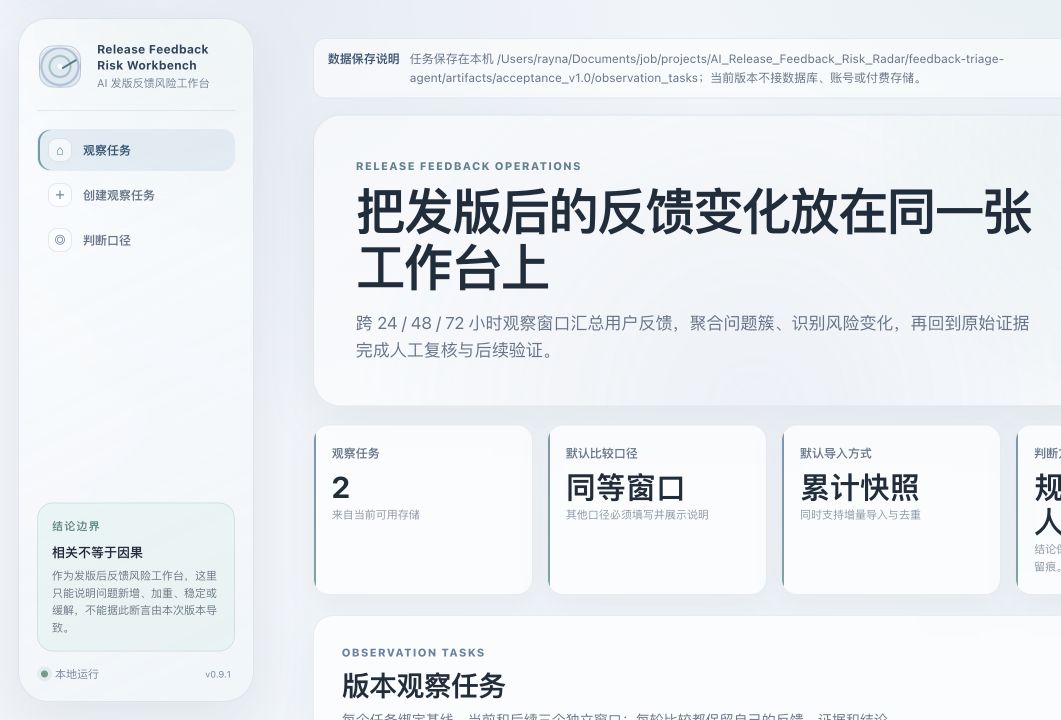
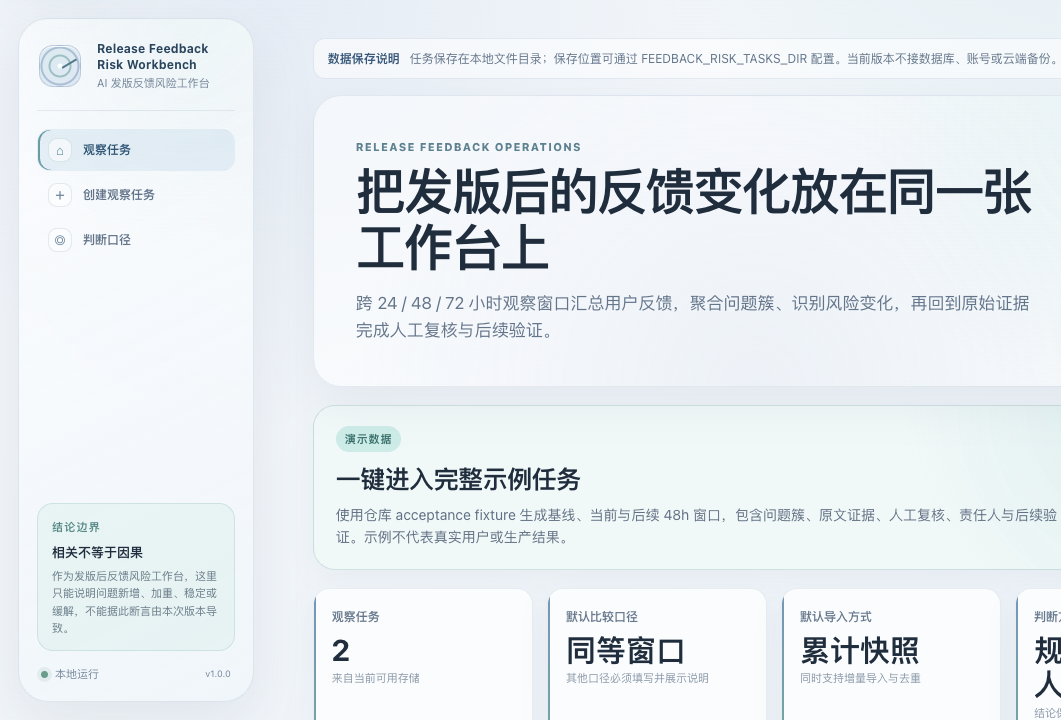
docs: refresh workbench screenshots without local paths

diff --git a/tests/test_risk_workbench.py b/tests/test_risk_workbench.py
@@ -87,8 +87,10 @@ def test_workbench_homepage_and_storage_boundary(
     assert "累计快照" in response.text
     assert "还没有观察任务" in response.text
     assert "相关不等于因果" in response.text
-    assert str(web_app.OBSERVATION_TASKS_DIR) in response.text
-    assert "当前版本不接数据库、账号或付费存储" in response.text
+    assert str(web_app.OBSERVATION_TASKS_DIR) not in response.text
+    assert "任务保存在本地文件目录" in response.text
+    assert "保存位置可通过 FEEDBACK_RISK_TASKS_DIR 配置" in response.text
+    assert "当前版本不接数据库、账号或云端备份" in response.text
 
     monkeypatch.setenv("VERCEL", "1")
     online_response = client.get("/")
@@ -117,6 +119,8 @@ def test_home_demo_entry_builds_complete_repeatable_fixture_task(
 
     demo = client.get("/demo")
     assert demo.status_code == 200
+    assert str(web_app.OBSERVATION_TASKS_DIR) not in demo.text
+    assert "任务保存在本地文件目录" in demo.text
     assert "这是可重复生成的示例任务" in demo.text
     assert "【演示数据】Acme Copilot v2.4 发版观察" in demo.text
     assert "当前相对基线" in demo.text
